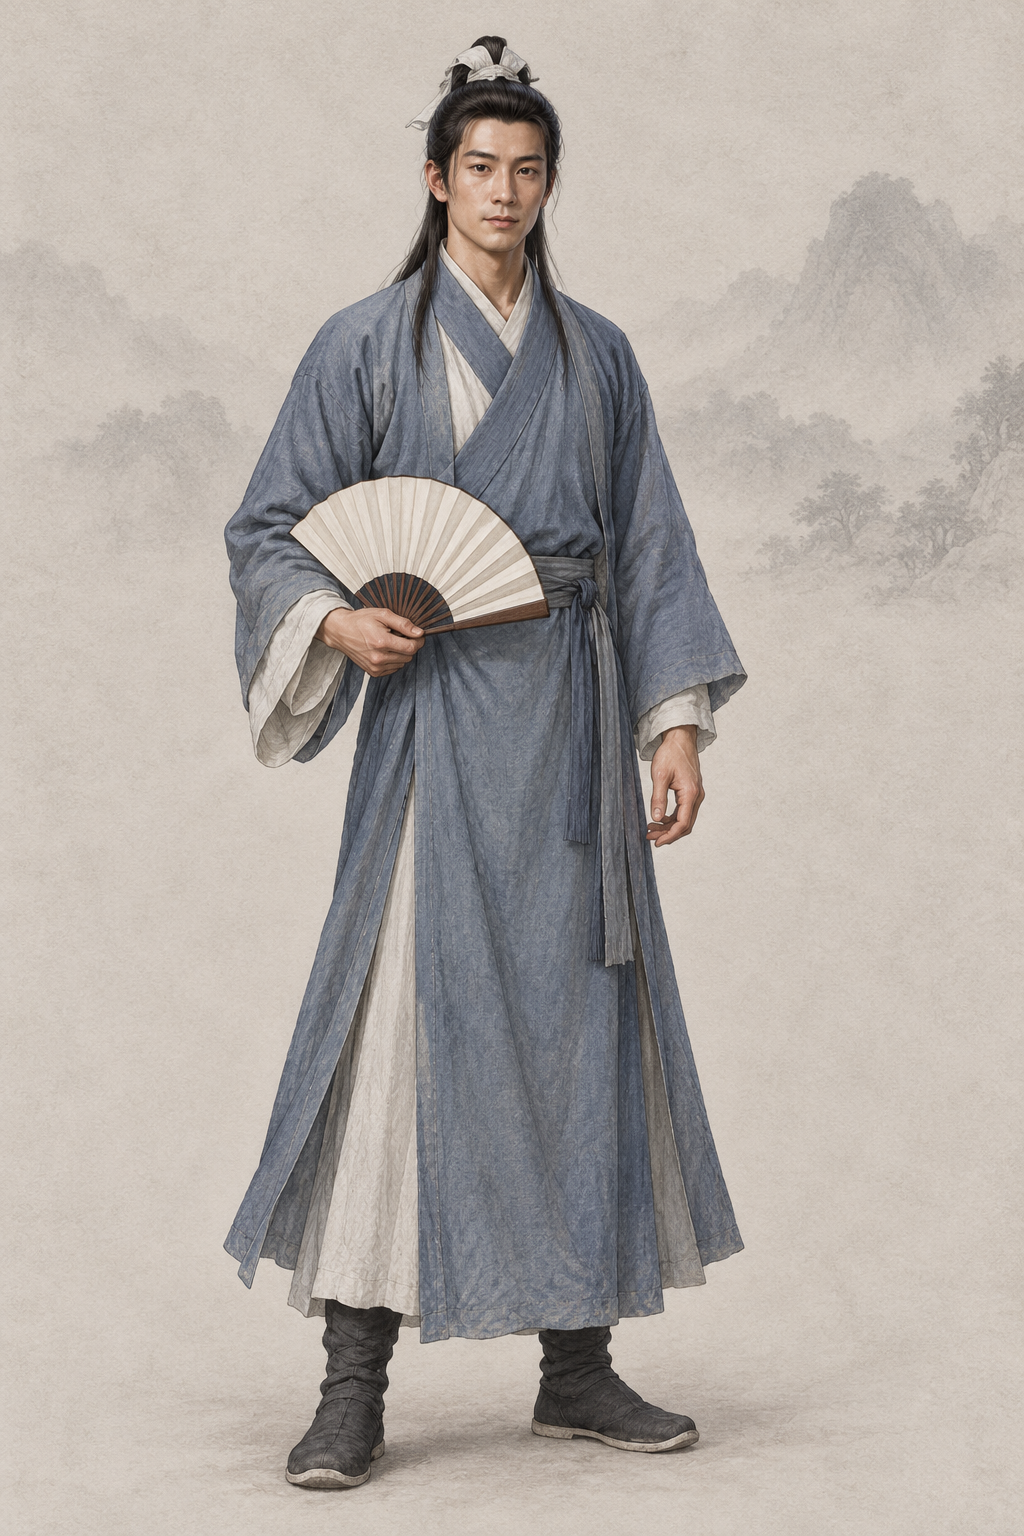
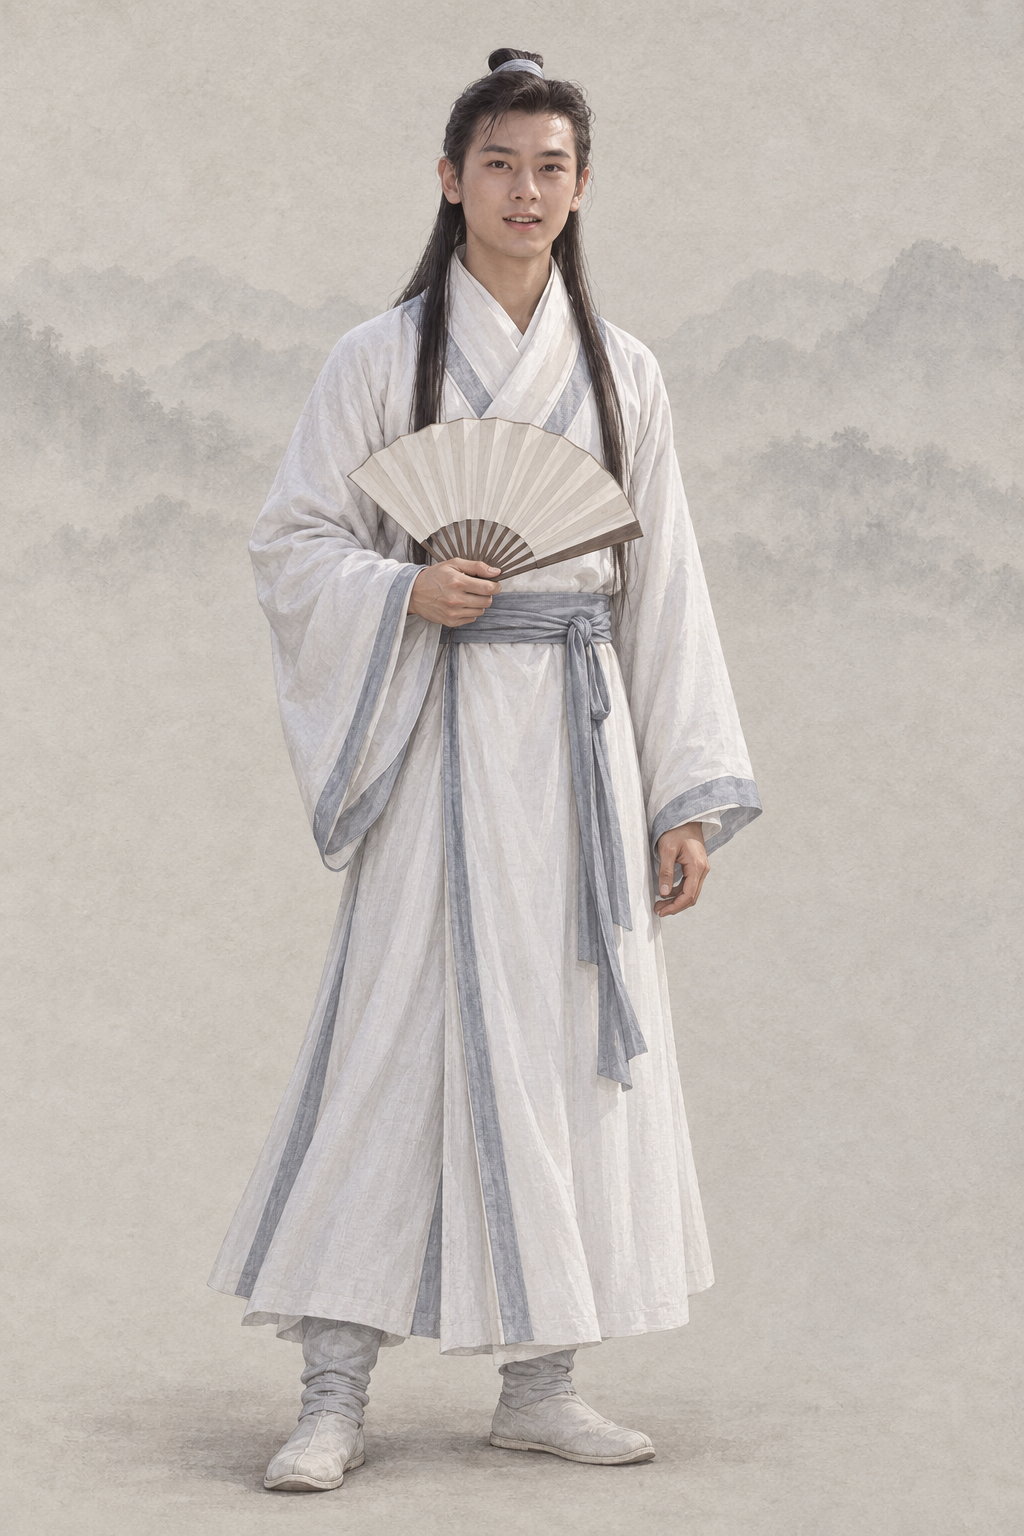
assets(character): 段誉 base 换作者选定的 B 版（AR-44，参考 2003 版造型）
作者 15:40 选 B。剧照为 2003 版段誉（林志颖）新浪 2021 微博旧照一文，前置剧照与剧照脸部特写，按项目画风重画：一袭白衣、浅青灰镶边、白发带高髻、素面折扇。旧图备份在 codex_w17/replaced/，提示词写回 npc_duanyu.md，上一版留作历史。

diff --git a/assets/default/prompts/characters/ch01-tianlong/npc_duanyu.md b/assets/default/prompts/characters/ch01-tianlong/npc_duanyu.md
@@ -8,30 +8,57 @@ age_variant: youth
 tier: S
 output: assets/default/character/male/ch01/por_npc_duanyu__ch01_youth_shizi_base.png
 manifest: assets/default/character/male/ch01/manifest.yaml
-references:
[4 lines of base64/hex data omitted]
 status: candidate
 realism_revision: user_character_realism_20261001
-redo_reason: "作者 10-02 晚：复合基线风格精修"
+references:
+- path: .agents/coord/imagegen-reference/identity-20261002/tianlong/duanyu_2003_linzhiying_sina2021.jpg
+  use: 身份参考：2003《天龙八部》 剧照（作者 10-03 指定版本）；只借造型、气质与五官神韵，按项目画风重画，不照搬照片
+  sha256: cc0cc29af539391b5c641f56b0f2441ca1c182bcd21354b3c4b4321b1a4aef36
+- path: .agents/coord/_handoff/gem/codex_w17/staging/stillface__duanyu.jpg
+  use: 剧照脸部特写：由上面这张剧照裁出放大（512×512），只为看清五官；同样只借神韵，按项目画风重画
+  sha256: adccc76f218aabffcc9d16be61e90d4191eb4b9f7d63248f8ea889c0cf1d7d63
+- path: assets/default/baseline/character/male/ref_npc_linghuchong__ch05_base01.png
+  use: 画风基线：项目同性别基线立绘，只取画风、用色、光线、质感和背景处理，不取长相（上传缩小版 JPEG）
+  sha256: 3523d4d935ad8bb13db359ce72e73bc211ebdb3af5cb2a9806db346dca6df202
+- path: assets/default/baseline/character/male/ref_npc_xiaofeng__ch01_base01.png
+  use: 画风基线：项目同性别基线立绘，只取画风、用色、光线、质感和背景处理，不取长相（上传缩小版 JPEG）
+  sha256: c9f87f225636e3f8166717f1b0c8ccaf13c319210fdc6069e09289e96632fd89
+redo_reason: "作者 10-03 AR-44：参考2003《天龙八部》造型重画 base，不要和照片一样"
 reference_upload:
-- "/Users/bytedance/Projects/jinyongqunxia/.agents/wt/_prod/.agents/coord/_handoff/gem/codex_w11/resume/refs/duanyu_still1.jpg"
-- "/Users/bytedance/Projects/jinyongqunxia/.agents/wt/_prod/.agents/coord/_handoff/gem/codex_w11/resume/refs/duanyu_game.jpg"
-- "/Users/bytedance/Projects/jinyongqunxia/.agents/wt/_prod/.agents/coord/_handoff/gem/baseline_small/male__ref_npc_linghuchong__ch05_base01.jpg"
-- "/Users/bytedance/Projects/jinyongqunxia/.agents/wt/_prod/.agents/coord/_handoff/gem/baseline_small/male__ref_npc_xiaofeng__ch01_base01.jpg"
-codex_prompt_rev: 2026-10-02
+- /Users/bytedance/Projects/jinyongqunxia/.agents/wt/_prod/.agents/coord/_handoff/gem/codex_w17/staging/still__por_npc_duanyu__ch01_youth_shizi_base__1.jpg
+- /Users/bytedance/Projects/jinyongqunxia/.agents/wt/_prod/.agents/coord/_handoff/gem/codex_w17/staging/stillface__duanyu.jpg
+- /Users/bytedance/Projects/jinyongqunxia/.agents/wt/_prod/.agents/coord/_handoff/gem/baseline_small/male__ref_npc_linghuchong__ch05_base01.jpg
+- /Users/bytedance/Projects/jinyongqunxia/.agents/wt/_prod/.agents/coord/_handoff/gem/baseline_small/male__ref_npc_xiaofeng__ch01_base01.jpg
+codex_prompt_rev: 2026-10-03
 classic_ref:
-  version: 1997 TVB《天龙八部》
+  version: 2003《天龙八部》
   stills:
-  - .agents/coord/imagegen-reference/hero-20261001/classic_duanyu_1997.jpg
-composite_job: por_npc_duanyu__ch01_youth_shizi_base.resume3
+  - .agents/coord/imagegen-reference/identity-20261002/tianlong/duanyu_2003_linzhiying_sina2021.jpg
 ---
 
 # 段誉 · 人物写实修正
 
 ## Gemini 提示词
+
+> 2026-10-03 AR-44 新 base（10 号出图员，codex exec · image_gen）：作者要求参考2003《天龙八部》造型、按项目画风重画、不要和照片一样；上传顺序：1 张剧照、1 张剧照脸部特写，最后两张为同性别画风基线（缩小版 JPEG）。上一版保留在下一节作历史。AR-44，作者 15:40 选 B。
+
+```text
+生成一张 2:3 竖幅全身人物立绘：单人、单一视角、完整全身——头顶、双手、双脚和手中器物的两端都在画面内，四周留出自然空白；人物站姿自然，身体基本朝向正面，头部端正（不歪头、不仰不俯），镜头平视。
+【参考图】第 1 张是该角色经典影视造型的剧照，第 2 张是同一张剧照的脸部特写。人物的脸要明显向剧照靠拢——脸型、眉形与眉眼间距、眼型与眼神、鼻梁、嘴型和神情都要像剧照里的这个角色，让看过这一版的观众一眼认出；发型、服饰、配色和气质也借鉴剧照。但必须重新绘制成项目的手绘插画画风：不要照片质感，不要照搬剧照的构图、光影、背景和姿势，不要做成照片修图或照片贴脸。最后两张是本项目画风基线：画风、用色、光线、质感和暖浅灰纸底加淡水墨背景以它们为准，但不取基线人物的长相。
+【画风】写实手绘古风人物插画，与本项目写实武侠角色立绘同一画风，像功力深厚的画师用细腻笔触画出的真实人物。手绘插画质感，不是 CG 渲染：不要过度光滑的皮肤、完美对称的五官、塑料高光、过度锐利的发丝；保留自然的笔触和细微不完美。皮肤有真实质感——细小毛孔、细纹、晒痕和自然的左右不对称，不磨皮、不油亮；头发是一缕缕自然的发丝和少量碎发；布料看得出经纬纹理、厚薄和自然垂坠的褶皱，带穿用过的轻微旧化，但完整不破烂；整体设色低饱和、沉稳；柔和的自然光从左上方照来，明暗过渡自然，不打舞台光、轮廓光或美颜柔光。不是照片，不是三维渲染，不是动漫或游戏 CG，也不是油画（没有厚涂笔触和画布纹理）。
+【背景】不透明的暖浅灰色纸底，只在远处有极淡的水墨远山和薄雾，大面积留白；人物与背景明暗分明、轮廓边缘干净完整（后续要自动抠图），水墨和纸纹只在背景里，不侵入人物和衣服；脚下只有很淡的一点接触阴影。
+【人物】段誉，《天龙八部》北宋大理国镇南王世子；无量山初入江湖、尚未学成北冥神功、凌波微步与六脉神剑的阶段。温文尔雅、心地仁厚，带一点书生的天真与痴气。
+【年龄与体态】约二十岁的成年男子（不是少年），身材修长匀称、肩背舒展，书生的清俊体态，约 7.5 头身。
+【面容（要像剧照里的段誉）】眉清目秀、俊美斯文：脸型清秀、下颌线干净、下巴略尖；眉毛浓黑细长、平直舒展；一双明亮的眼睛、双眼皮清楚、眼神温和带笑、略带痴气；鼻梁秀挺；唇形柔和、嘴角含笑；肤色白净。是成年的翩翩公子，不要娃娃脸、不要婴儿肥。
+【发式】黑发在头顶高高束成发髻、用白色发带扎住，额前头发向后梳，其余长发披在背后，两鬓各垂下一缕长发。
+【服饰：一袭白衣】白色交领右衽长衫，领缘、袖缘有浅青灰色窄边，内衬白色中衣，腰系一条浅青灰色丝绦，素色长裤、浅色布履；衣料细洁，大理世子的贵气只体现在做工上，不堆金饰。
+【手与道具】右手轻持一柄半开的素面折扇停在胸腹前，扇骨清楚、扇面无字无画；左手自然垂放。不佩剑、不拿书。
+【姿态】站姿放松而端正，身体基本朝向正面、微微侧身，头部端正，目光平视、带一点好奇的笑意。
+【不要】画面里不要任何文字、题款、印章、签名、水印、边框、分格或多视图；不要第二个人；不要幼态（童颜、娃娃脸、婴儿肥、儿童或少年身材、大头小身）；不要塑料感皮肤、磨皮美颜、网红脸（尖下巴大眼高鼻的模板脸）、过度对称、浓妆、偶像式打光、蜡像感；不要照片质感，不要像剧照照片、照片修图或拼贴，不要照搬剧照的背景、光影、构图和姿势；不要三维渲染或动漫大眼；不要歪头、斜镜头；不要多指、缺指（设定的伤残除外）、手与器物粘连或悬空；衣襟必须右衽（穿着者的左襟压在右襟上），不要左衽（设定为少数民族服制的除外），不要水平镜像；不要现代物品、发光特效、法阵或能量光。不要娃娃脸、婴儿肥或少年身材；不要佩剑、指剑气、六脉神剑光效；不要帝王冠或华丽官服；扇面不要任何字画。
+【画风基线】随提示词上传的参考图里，最后两张是本项目的立绘画风基线：只参考它们的画风、用色、光线、质感和暖浅灰纸底加淡水墨的背景处理，整体画风必须与它们一致——精细写实的数字手绘插画，不是油画，不要厚涂笔触和画布纹理。基线图只取画风，不取长相：不要照搬基线图里人物的长相、年龄、发型、服饰和姿势。
+```
+
+## 上一版 Gemini 提示词（AR-44 新 base 之前，历史，不再用于出图）
 
 > 作者10-02晚复合精修；任务 `por_npc_duanyu__ch01_youth_shizi_base.resume3`；实际上传顺序见frontmatter，末两张为male项目基线。
 
